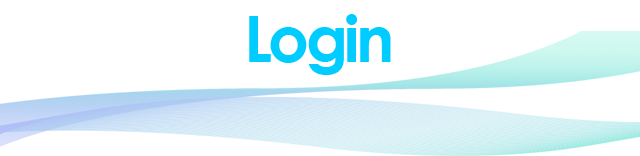
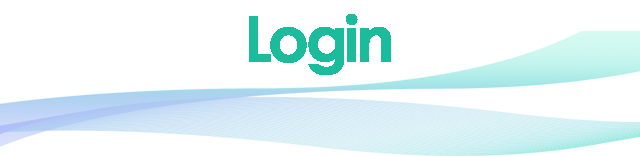
Ajustando o design do projeto

Changed region(s): [[0.375, 0.1026, 0.625, 0.4872], [0.5312, 0.0769, 0.5625, 0.1538]]

diff --git a/AppMobileIonic/src/interceptors/error.interceptor.ts b/AppMobileIonic/src/interceptors/error.interceptor.ts
@@ -1,7 +1,8 @@
+import { AuthService } from './../services/auth.service';
 import { Injectable } from '@angular/core';
 import { HttpEvent, HttpInterceptor, HttpHandler, HttpRequest, HTTP_INTERCEPTORS } from '@angular/common/http';
 import { Observable } from 'rxjs/Rx'; // IMPORTANTE: IMPORT ATUALIZADO
-import { ToastController } from 'ionic-angular';
+import { ToastController, App, Nav } from 'ionic-angular';
 
 import { STORAGE_KEYS } from './../config/storage_keys.config';
 import { FieldMessage } from '../models/fieldmessage';
@@ -9,7 +10,9 @@ import { FieldMessage } from '../models/fieldmessage';
 @Injectable()
 export class ErrorInterceptor implements HttpInterceptor {
 
-    constructor(public toastCtrl: ToastController){}
+    nav: Nav;
+
+    constructor(public toastCtrl: ToastController, public app: App, public authService: AuthService){}
 
     intercept(req: HttpRequest<any>, next: HttpHandler): Observable<HttpEvent<any>> {
         return next.handle(req)
@@ -18,7 +21,7 @@ export class ErrorInterceptor implements HttpInterceptor {
                 if(!error.status) error = JSON.parse(error);
                 console.log(error);
                 switch(error.status) {
-                    case 403: localStorage.removeItem(STORAGE_KEYS.localUser);
+                    case 403: this.error403();
                     break;
                     case 404: this.buildToast('Página não encontrada');
                     break;
@@ -31,6 +34,12 @@ export class ErrorInterceptor implements HttpInterceptor {
 
                 return Observable.throw(error);
             }) as any;
+    }
+
+    error403() {
+        this.authService.logout();
+        console.log(this.nav.getActive().component.name); 
+        this.app.getRootNav().setRoot('LoginPage');
     }
 
     buildToast(message: string, duration: number = 3000){

diff --git a/AppMobileIonic/src/pages/categorias/categorias.scss b/AppMobileIonic/src/pages/categorias/categorias.scss
@@ -3,23 +3,29 @@
     ion-card {
       position: relative;
       text-align: center;
-    }
   
-    .card-title {
-      position: absolute;
-      top: 36%;
-      font-size: 2.0em;
-      width: 100%;
-      font-weight: bold;
-      color: #fff;
-    }
-  
-    .card-subtitle {
-      font-size: 1.0em;
-      position: absolute;
-      top: 52%;
-      width: 100%;
-      color: #fff;
+      .card-title {
+        position: absolute;
+        top: 36%;
+        font-size: 2.0em;
+        width: 100%;
+        font-weight: bold;
+        color: #fff;
+        text-shadow: 3px 3px 10px rgb(61, 61, 61);
+      }
+    
+      .card-subtitle {
+        font-size: 1.0em;
+        position: absolute;
+        top: 52%;
+        width: 100%;
+        color: #fff;
+        text-shadow: 3px 3px 10px rgb(61, 61, 61);
+      }
+
+      img {
+        filter: blur(1px);
+      }
     }
   
   }

diff --git a/AppMobileIonic/src/pages/login/login.html b/AppMobileIonic/src/pages/login/login.html
@@ -20,10 +20,10 @@
                   <ion-input type="password" [(ngModel)]="credenciais.senha" name="senha"></ion-input>
                 </ion-item>
             </ion-list>
-            <button ion-button block (click)="login()" color="secondary">
+            <button ion-button block (click)="login()" color="turquesa">
                 <ion-icon name="md-log-in"></ion-icon> Login
             </button>
-            <button ion-button block (click)="signup()" outline color="secondary"> 
+            <button ion-button block (click)="signup()" outline color="turquesa"> 
                 <ion-icon name="ios-person-add"></ion-icon> Registrar
             </button>
         </ion-slide>

diff --git a/AppMobileIonic/src/pages/perfil/perfil.html b/AppMobileIonic/src/pages/perfil/perfil.html
@@ -1,9 +1,9 @@
 <ion-header>
     <ion-navbar>
       <ion-title>
-            <button ion-button round>Editar</button>
+            <button ion-button color="light" round outline>Editar</button>
             <button ion-button color="dark" clear disabled>Meu perfil</button>
-            <button ion-button color="danger" round (click)="logout()">Sair</button>
+            <button ion-button color="light" round (click)="logout()" outline>Sair</button>
         </ion-title>
     </ion-navbar>
 </ion-header>

diff --git a/AppMobileIonic/src/pages/categorias/categorias.html b/AppMobileIonic/src/pages/categorias/categorias.html
@@ -7,9 +7,10 @@
 <ion-content class="card-background-page" padding>
     <div *ngFor="let categoria of listCategoria" (click)="showProdutos(categoria.id)">
       <ion-card>
-        <img src="assets/imgs/{{categoria.nome}}.jpg"/>
+        <img src="assets/imgs/{{categoria.nome}}.jpg" height="170px"/>
         <div class="card-title">{{categoria.nome}}</div>
         <div class="card-subtitle">Clique para pesquisar</div>
       </ion-card> 
+      <hr>
     </div>
  </ion-content>

diff --git a/AppMobileIonic/src/pages/tabs/tabs.html b/AppMobileIonic/src/pages/tabs/tabs.html
@@ -1,4 +1,4 @@
-<ion-tabs>
+<ion-tabs color="turquesa">
   <ion-tab [root]="categorias" tabTitle="Categorias" tabIcon="md-list-box" tabsHideOnSubPages="true"></ion-tab>
   <ion-tab [root]="carrinho" tabTitle="Carrinho" tabIcon="md-cart" tabsHideOnSubPages="true"></ion-tab>
   <ion-tab [root]="perfil" tabTitle="Perfil" tabIcon="md-person"  tabsHideOnSubPages="true"></ion-tab>

diff --git a/AppMobileIonic/src/theme/variables.scss b/AppMobileIonic/src/theme/variables.scss
@@ -38,8 +38,12 @@ $colors: (
   secondary:  #32db64,
   danger:     #f53d3d,
   light:      #f4f4f4,
-  dark:       #222
+  dark:       #222,
+  turquesa: #1abc9c,
+  esmeralda: #2ecc71
 );
+$toolbar-background: #1abc9c;
+
 
 
 // App iOS Variables
